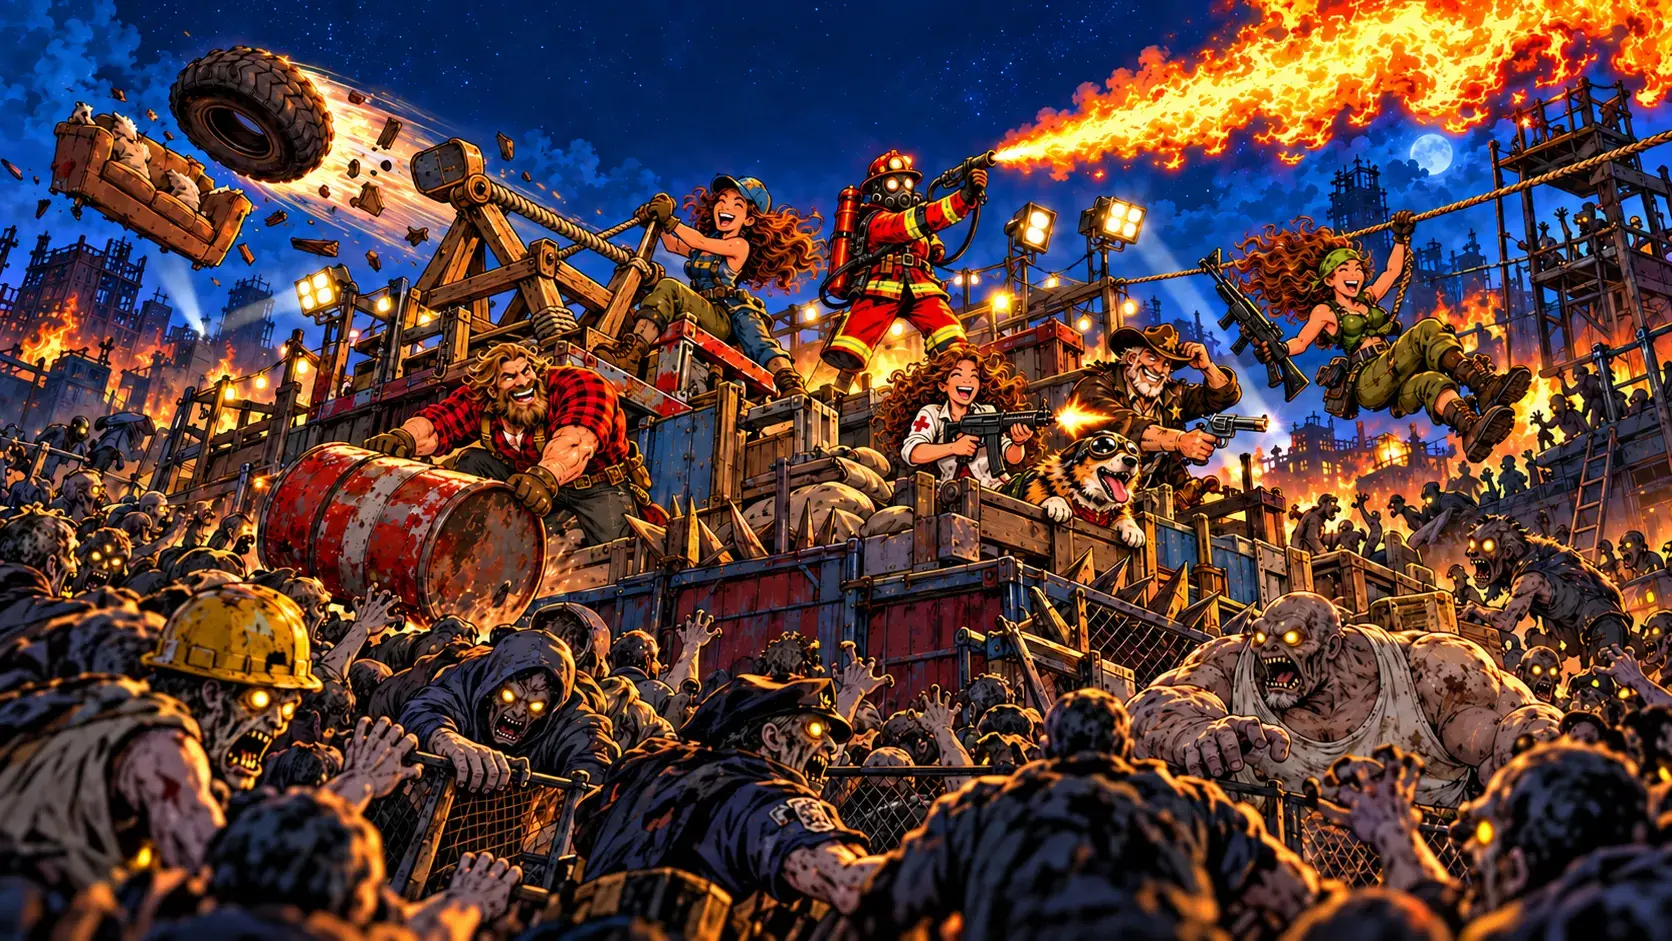
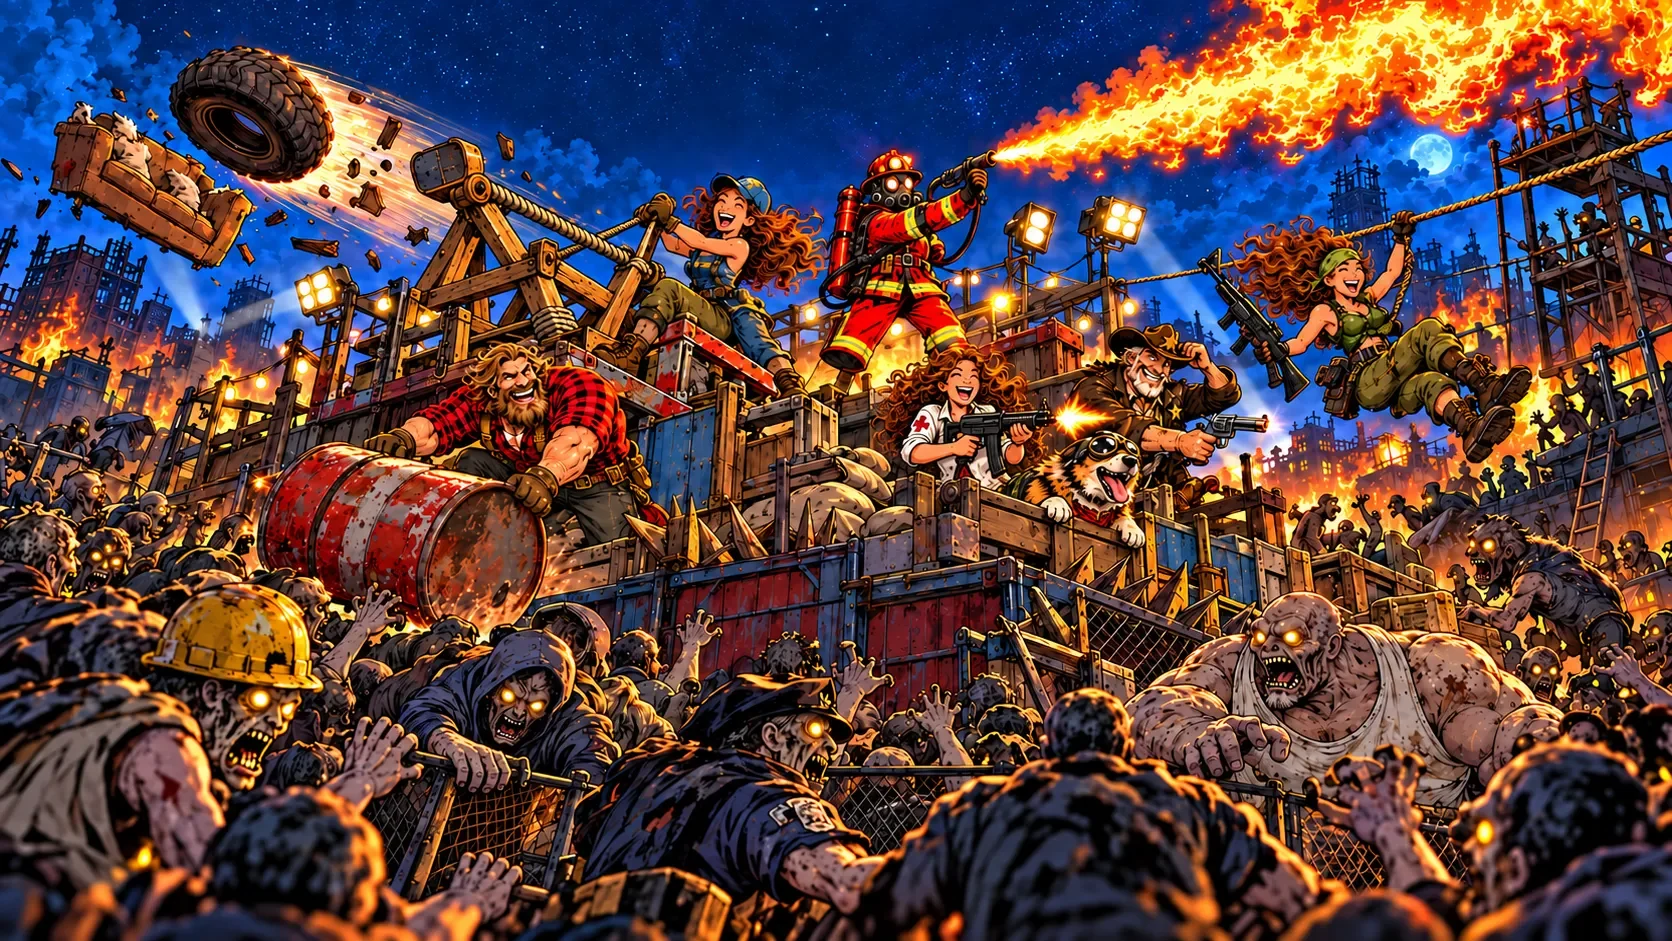
Accueil : image d'ambiance en version portrait pour le téléphone, plus nette (v148)
Claude-Session: https://claude.ai/code/session_01M1U9JRA1gBavNDU8oq7dha

diff --git a/sw.js b/sw.js
@@ -1,10 +1,10 @@
-/* Barricard : jeu jouable sans internet (v147).
+/* Barricard : jeu jouable sans internet (v148).
    - Code (page, scripts, styles) : réseau d'abord, copie gardée pour jouer hors ligne. Les mises à jour arrivent donc tout de suite.
    - Images, sons, polices : copie locale d'abord (chargement instantané), rafraîchie en arrière-plan.
    - version.txt : toujours le réseau (vérification de mise à jour). */
 const CACHE='abri-1';
 const CORE=['./','index.html','src/style.css','src/i18n.js','src/lang-en.js','src/engine.js','src/audio.js','src/game.js','src/game-draw.js','src/game-ui.js','src/game-screens.js','src/game-menu.js','manifest.webmanifest',
- 'assets/fonts/special-elite.woff2','assets/fonts/atkinson-400.woff2','assets/fonts/atkinson-700.woff2','assets/ui/keyart.webp','assets/ui/barricard.webp'];
+ 'assets/fonts/special-elite.woff2','assets/fonts/atkinson-400.woff2','assets/fonts/atkinson-700.woff2','assets/ui/keyart.webp','assets/ui/keyart-portrait.webp','assets/ui/barricard.webp'];
 self.addEventListener('install',e=>{e.waitUntil(caches.open(CACHE).then(c=>c.addAll(CORE)).catch(()=>{}).then(()=>self.skipWaiting()))});
 self.addEventListener('activate',e=>{e.waitUntil(caches.keys().then(ks=>Promise.all(ks.filter(k=>k!==CACHE).map(k=>caches.delete(k)))).then(()=>self.clients.claim()))});
 const put=(req,res)=>{if(res&&res.ok&&res.type==='basic'){const c=res.clone();caches.open(CACHE).then(ca=>ca.put(req,c)).catch(()=>{})}return res};

diff --git a/index.html b/index.html
@@ -13,7 +13,7 @@
 <meta name="mobile-web-app-capable" content="yes">
 <meta name="apple-mobile-web-app-status-bar-style" content="black-translucent">
 <meta name="apple-mobile-web-app-title" content="Barricard">
-<link rel="stylesheet" href="src/style.css?v=147">
+<link rel="stylesheet" href="src/style.css?v=148">
 </head>
 <body>
 
@@ -50,14 +50,14 @@
 </div>
 <div class="overlay" id="ov"><div class="panel" id="panel"></div></div>
 
-<script src="src/i18n.js?v=147"></script>
-<script src="src/lang-en.js?v=147"></script>
-<script src="src/engine.js?v=147"></script>
-<script src="src/audio.js?v=147"></script>
-<script src="src/game.js?v=147"></script>
-<script src="src/game-draw.js?v=147"></script>
-<script src="src/game-ui.js?v=147"></script>
-<script src="src/game-screens.js?v=147"></script>
-<script src="src/game-menu.js?v=147"></script>
+<script src="src/i18n.js?v=148"></script>
+<script src="src/lang-en.js?v=148"></script>
+<script src="src/engine.js?v=148"></script>
+<script src="src/audio.js?v=148"></script>
+<script src="src/game.js?v=148"></script>
+<script src="src/game-draw.js?v=148"></script>
+<script src="src/game-ui.js?v=148"></script>
+<script src="src/game-screens.js?v=148"></script>
+<script src="src/game-menu.js?v=148"></script>
 </body>
 </html>

diff --git a/src/style.css b/src/style.css
@@ -868,7 +868,8 @@ html.eco .citem.in .cf{filter:none!important;outline:3px solid #8fd65a;outline-o
  box-shadow:inset 0 2px 6px rgba(0,0,0,.5),0 6px 10px rgba(0,0,0,.55)}
 
 /* v147 : image d'ambiance derrière les menus hors partie (accueil et ses écrans), nouveau logo Barricard */
-#ov.home{background:linear-gradient(rgba(15,10,6,.35),rgba(15,10,6,.55)),#1a1f33 url(../assets/ui/keyart.webp) center 40%/cover no-repeat;backdrop-filter:none}
+#ov.home{background:linear-gradient(rgba(15,10,6,.2),rgba(15,10,6,.45)),#1a1f33 url(../assets/ui/keyart.webp) center 40%/cover no-repeat;backdrop-filter:none}
+@media (max-aspect-ratio:3/4){#ov.home{background-image:linear-gradient(rgba(15,10,6,.2),rgba(15,10,6,.45)),url(../assets/ui/keyart-portrait.webp);background-position:center 30%}}
 #panel.ttl{background:none;box-shadow:none;border:0;outline:0}
 .panel.ttl .logo{width:min(100%,420px);margin:0 auto 8px}
 .panel.ttl p{color:#2b1a0c;background:rgba(239,227,198,.92);border-radius:8px;padding:8px 12px;box-shadow:0 4px 14px rgba(0,0,0,.6)}

diff --git a/src/game.js b/src/game.js
@@ -197,7 +197,7 @@ function cardFace(t,o={}){const U0=Z.U[t],D=o.base?U0:Z.stat(G,t),r=rar(t),st=ca
 const art=t=>{const u=Z.U[t]&&artUrl(t);return u?`<span class="art" style="background-image:url('${u}')"></span>`:svg(t)};
 const cc=t=>`var(--k-${Z.U[t].cat})`;
 // à changer à chaque mise en ligne : permet de vérifier sur le téléphone qu'on a la dernière version
-const VERSION='v147 · 22 oct.';
+const VERSION='v148 · 22 oct.';
 /* mise à jour automatique : version.txt (à la racine) contient le numéro de la dernière version publiée.
    Si la page chargée est plus ancienne (cache du site ou du téléphone), on la recharge avec une adresse neuve,
    ce qui contourne les deux caches. Une seule tentative par version, pour ne jamais boucler. */

diff --git a/docs/GAME_DESIGN.md b/docs/GAME_DESIGN.md
@@ -859,3 +859,5 @@ Bouton « Mode test » sur l'accueil, pour essayer cartes et nuits : on choisit 
 - Logo « Barricard — One More Night » (`assets/ui/barricard.webp`), le même dans toutes les langues ; il remplace le logo SVG de la v101.
 - Image d’ambiance (`assets/ui/keyart.webp`) derrière l’accueil et les écrans ouverts depuis l’accueil (règles, défi, bestiaire, statistiques, succès, options…). Pendant une partie (pause, aube…), le plateau assombri reste derrière, sans l’image.
 - Accueil : textes dans des bandeaux de papier ; crédits et version en petit texte clair, sans bandeau.
+
+**v148** : image d’ambiance en deux formats : `keyart-portrait.webp` (841 × 1870) sur les écrans en hauteur (téléphone), `keyart.webp` (1672 × 941) sur les écrans en largeur ; voile sombre allégé.
